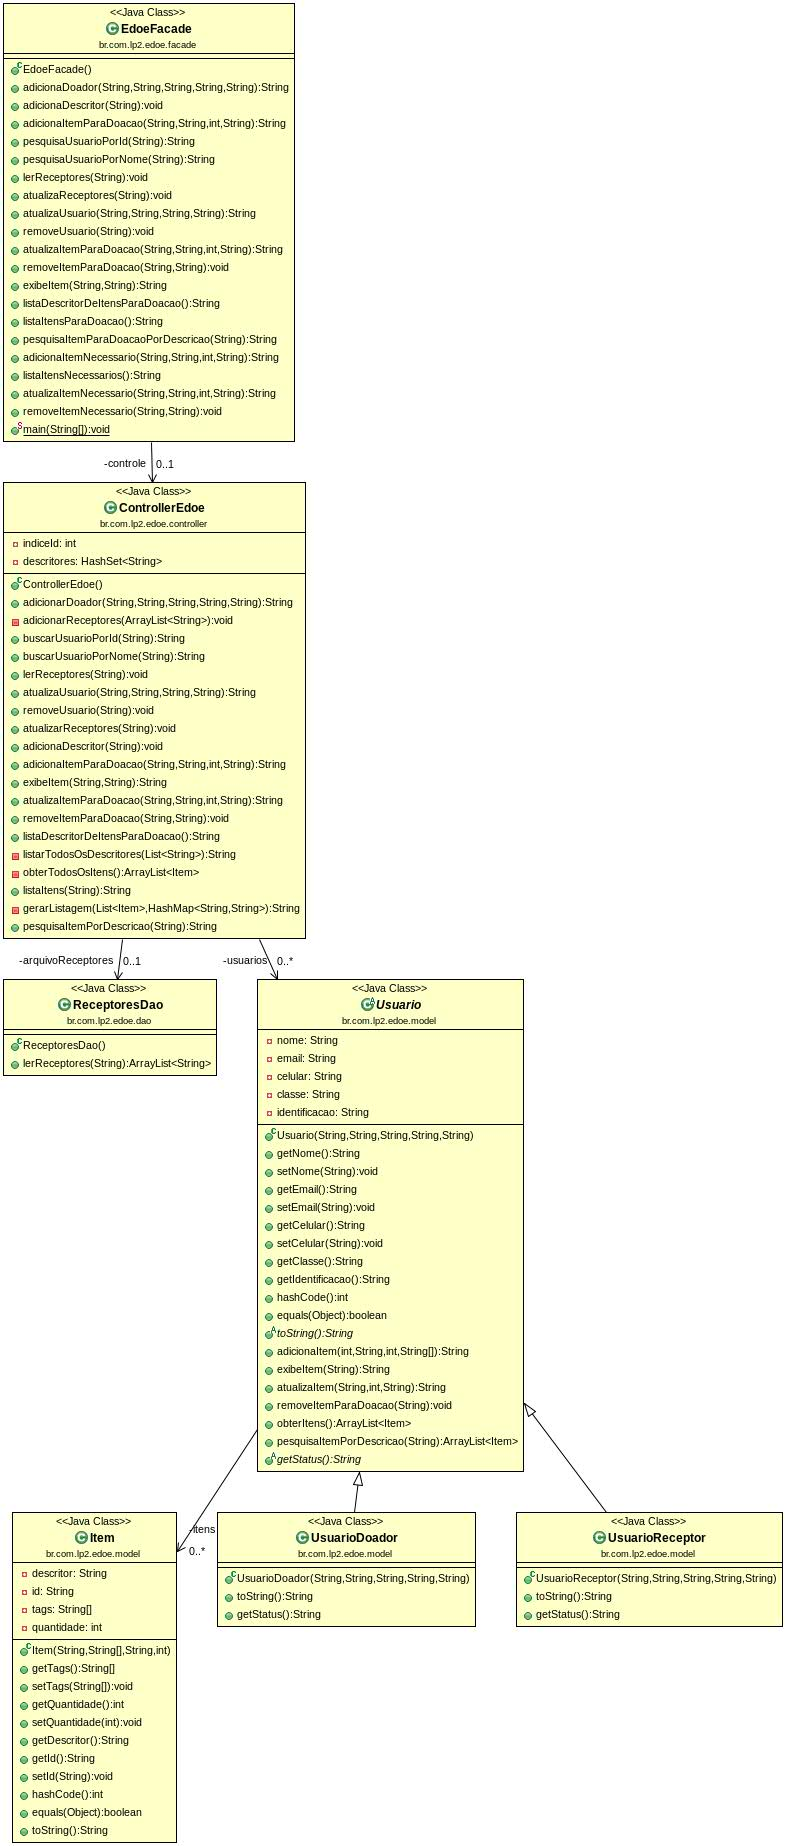
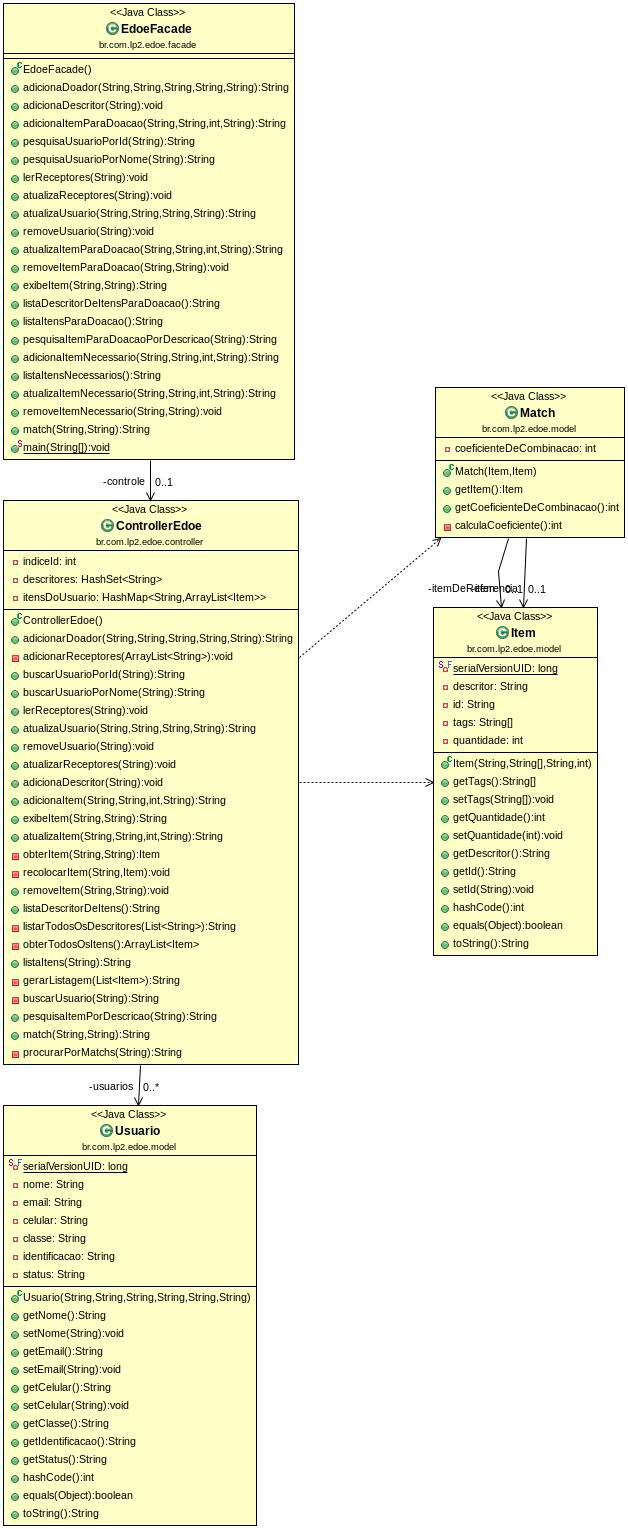
Revisei os metodos e testes. Tudo funcionando.

diff --git a/src/br/com/lp2/edoe/controller/ControllerEdoe.java b/src/br/com/lp2/edoe/controller/ControllerEdoe.java
@@ -368,13 +368,15 @@ public class ControllerEdoe {
 			throw new InvalidUserException(idDoador);
 		}
 		
-		for (Item item : itensDoUsuario.get(idDoador)) {
-			if(item.getId().equals(idItem)) {
-				return item.toString();
-				
+		if(itensDoUsuario.containsKey(idDoador)) {
+			
+			for (Item item : itensDoUsuario.get(idDoador)) {
+				if(item.getId().equals(idItem)) {
+					return item.toString();
+					
+				}
 			}
 		}
-		
 		throw new NullPointerException("Item nao encontrado: " + idItem + ".");
 	}
 	
@@ -690,7 +692,7 @@ public class ControllerEdoe {
 		ArrayList<Match> possiveisMatchs = new ArrayList<>();
 		
 		for(Item item : obterTodosOsItens()) {
-			System.out.println(item.toString());
+
 			if(retornoBusca.getDescritor().equals(item.getDescritor()) && usuarios.get(buscarUsuario(item.getId())).getStatus().equals("doador")) {
 				possiveisMatchs.add(new Match(retornoBusca, item));
 			}
@@ -700,11 +702,6 @@ public class ControllerEdoe {
 			return "";
 		
 		Collections.sort(possiveisMatchs, new ComparadorMatch());
-		
-		for (Match match : possiveisMatchs) {
-			System.out.println(match.getCoeficienteDeCombinacao());
-		}
-		System.out.println();
 		
 		ArrayList<Item> itens = new ArrayList<>();
 		for(Match match : possiveisMatchs)

diff --git a/src/br/com/lp2/edoe/exceptions/InvalidUserException.java b/src/br/com/lp2/edoe/exceptions/InvalidUserException.java
@@ -10,6 +10,8 @@ package br.com.lp2.edoe.exceptions;
  */
 public class InvalidUserException extends Exception {
 
+	private static final long serialVersionUID = 1L;
+
 	/**
 	 * Metodo que gera um excecao do tipo {@link InvalidUserException} recebendo como parametro o (id ou nome) do usuario que gerou esse erro. 
 	 * O erro eh gerado caso haja algum problema com o usuario buscado.

diff --git a/src/br/com/lp2/edoe/exceptions/InvalidArgumentException.java b/src/br/com/lp2/edoe/exceptions/InvalidArgumentException.java
@@ -9,7 +9,9 @@ package br.com.lp2.edoe.exceptions;
  * 
  */
 public class InvalidArgumentException extends Exception {
-	
+
+	private static final long serialVersionUID = 1L;
+
 	/**
 	 * Metodo que gera um excecao do tipo {@link InvalidArgumentException} recebendo como parametro o nome do atributo que gerou esse erro.
 	 * 

diff --git a/testes/junit/edoe/tests/controller/ControllerUsuarioTest.java b/testes/junit/edoe/tests/controller/ControllerUsuarioTest.java
@@ -501,7 +501,7 @@ class ControllerUsuarioTest {
 			controle.atualizaItem("1234567","12345678901",4,"camisa,branca");
 		});
 		
-		assertEquals("Item nao encontrado: 1234567.",npe.getMessage());
+		assertEquals("O usuario não tem itens cadastrados",npe.getMessage());
 	}
 	
 	@Test

diff --git a/src/br/com/lp2/edoe/model/Usuario.java b/src/br/com/lp2/edoe/model/Usuario.java
@@ -1,9 +1,6 @@
 package br.com.lp2.edoe.model;
 
 import java.io.Serializable;
-import java.util.ArrayList;
-import java.util.HashMap;
-import java.util.Set;
 
 /**
  * Classe que representa uma abstracao de um Usuario no sistema, eh uma classe basica que fornece atributos e metodos 

diff --git a/src/br/com/lp2/edoe/model/Item.java b/src/br/com/lp2/edoe/model/Item.java
@@ -13,6 +13,8 @@ import java.util.Arrays;
  */
 public class Item implements Serializable {
 	
+	private static final long serialVersionUID = 1L;
+	
 	private String descritor;
 	private String id;
 	

diff --git a/src/br/com/lp2/edoe/model/Match.java b/src/br/com/lp2/edoe/model/Match.java
@@ -1,7 +1,5 @@
 package br.com.lp2.edoe.model;
 
-import java.util.Arrays;
-
 /**
  *
  * @author Caio Fernandes Moreira - caio.moreira@ccc.ufcg.edu.br
